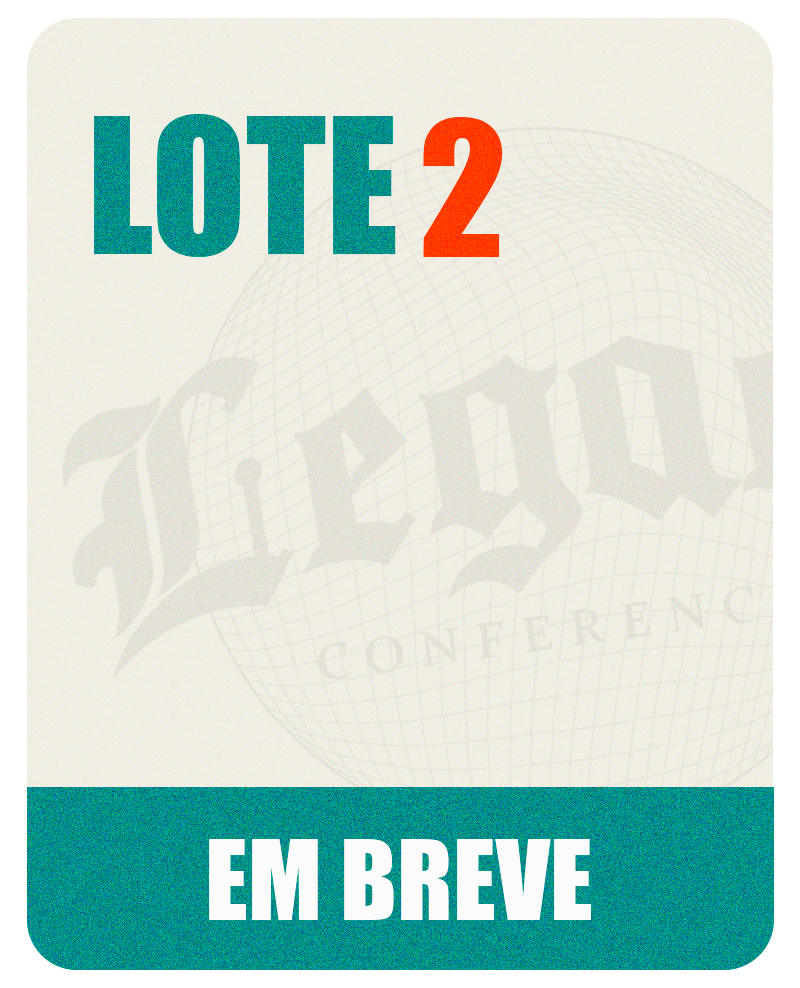
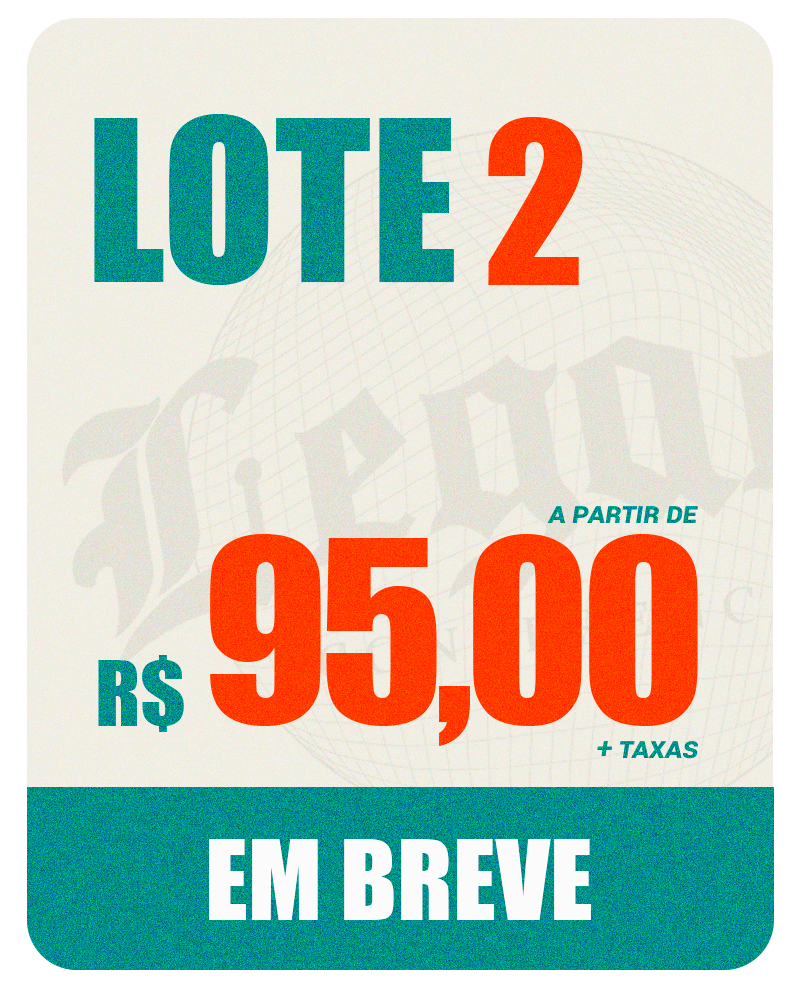
Update whats link and tickets price

Changed region(s): [[0.125, 0.4858, 0.875, 0.7895], [0.0938, 0.0911, 0.75, 0.3036]]

diff --git a/src/pages/conference/conference.module.css b/src/pages/conference/conference.module.css
@@ -211,6 +211,8 @@
   .saveTheDateSection {
     padding-bottom: 0px;
     margin-top: 0px;
+    /* padding: 0 30px; */
+    width: 95%;
   }
   .saveTheDateSection > div {
     /* width: 60%; */
@@ -232,9 +234,11 @@
 
   .timelineSection {
     padding: 60px 0;
+    width: 95%;
   }
   .lineUpSection {
     padding: 60px 0;
+    width: 95%;
   }
 
   .lineUpList,
@@ -245,10 +249,9 @@
     justify-content: space-between;
     gap: 46px;
   }
-  
+
   .ticketsList {
     gap: 10px;
-
   }
 
   .ticketsSection {
@@ -272,7 +275,7 @@
     transform: translateY(0);
   }
   50% {
-    transform: translateY(-3px);
+    transform: translateY(-5px);
   }
   100% {
     transform: translateY(0);

diff --git a/src/pages/home/index.jsx b/src/pages/home/index.jsx
@@ -21,7 +21,7 @@ const Home = () => {
           </li>
           <li className={styles.socialMediaListItem}>
             <a
-              href="https://chat.whatsapp.com/HGsUX8ZNn8P9acrwL1BEB1"
+              href="https://chat.whatsapp.com/JepXdgO3OVTFqy3hEIk7UH"
               target="_blank"
               rel="noopener noreferrer"
             >

diff --git a/src/pages/conference/index.jsx b/src/pages/conference/index.jsx
@@ -71,13 +71,6 @@ const Conference = () => {
       isActive: false,
       image: "/images/conference/tickets/lote3.png",
     },
-    {
-      status: "Comprar",
-      titulo: "Lote 4",
-      valor: "",
-      isActive: false,
-      image: "/images/conference/tickets/lote4.png",
-    },
   ];
   return (
     <>

diff --git a/src/components/conference/TicketCard/styles.module.css b/src/components/conference/TicketCard/styles.module.css
@@ -1,7 +1,7 @@
 .cardContainer {
   width: calc(50% - 20px);
   max-width: 180px;
-  height: 200px;
+  /* height: 250px; */
   /* background-color: white; */
   border-radius: 20px;
   position: relative;
